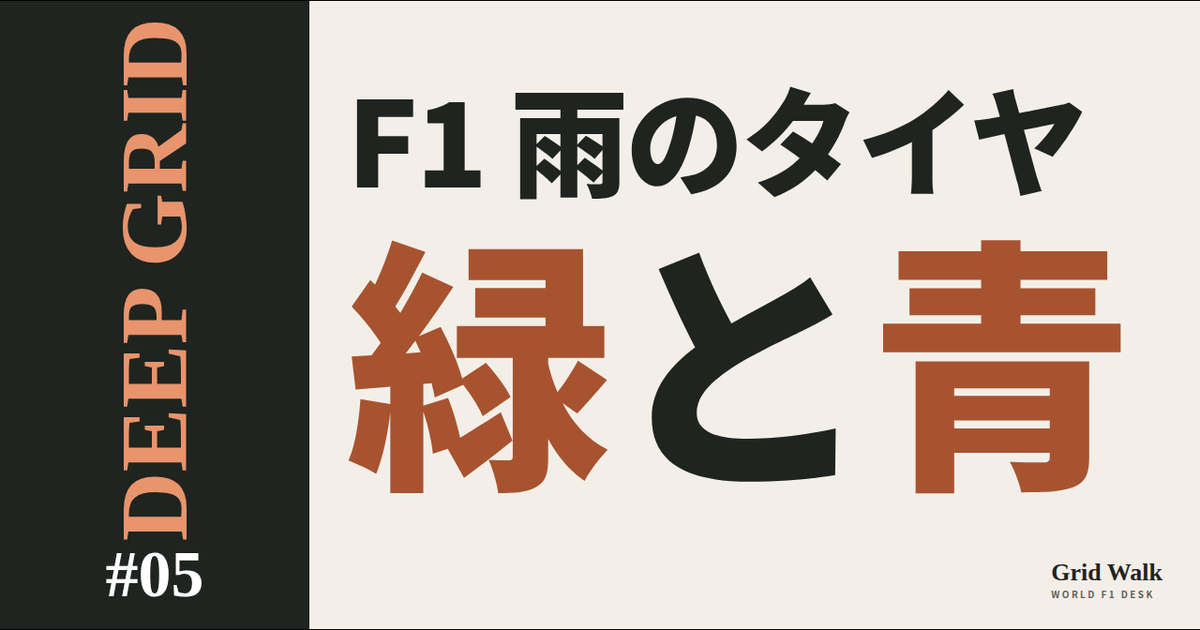
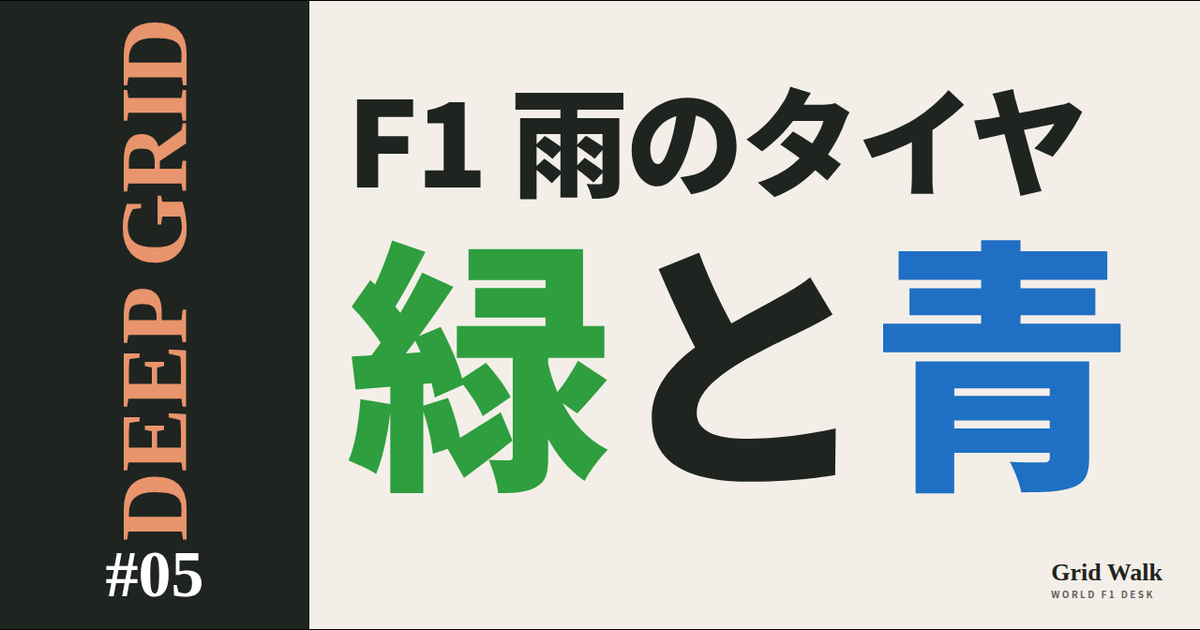
DEEP #05: recolour share image (green/blue)
Claude-Session: https://claude.ai/code/session_01AbprJDCivhn4G6aSdDSkTK

Changed region(s): [[0.2775, 0.3619, 0.5242, 0.7841], [0.7092, 0.3619, 0.9558, 0.7841]]

diff --git a/deep/wet-tyres-sepang/index.html b/deep/wet-tyres-sepang/index.html
@@ -18,11 +18,11 @@
 <meta property="og:description" content="今季のF1は、新しい車になってから、まだ一度も本格的な雨の決勝を走っていない。その初めての雨が、セパンで来るかもしれない。雨のタイヤは何が違い、いつ替えるのか。雨になると、決まりの何が変わるのか。決勝の前に、雨のレースの見方をほどいていく。">
 <meta property="og:url" content="https://f1gridwalk.github.io/deep/wet-tyres-sepang/">
 <meta property="og:locale" content="ja_JP">
-<meta property="og:image" content="https://f1gridwalk.github.io/deep/wet-tyres-sepang/og.png?v=d8b67945">
+<meta property="og:image" content="https://f1gridwalk.github.io/deep/wet-tyres-sepang/og.png?v=69b0c466">
 <meta property="og:image:width" content="1200">
 <meta property="og:image:height" content="630">
 <meta name="twitter:card" content="summary_large_image">
-<meta name="twitter:image" content="https://f1gridwalk.github.io/deep/wet-tyres-sepang/og.png?v=d8b67945">
+<meta name="twitter:image" content="https://f1gridwalk.github.io/deep/wet-tyres-sepang/og.png?v=69b0c466">
 <link rel="stylesheet" href="https://fonts.googleapis.com/css2?family=IBM+Plex+Mono:wght@500;700&display=swap">
 <meta property="article:published_time" content="2026-10-04T13:28:00+09:00">
 <style>
